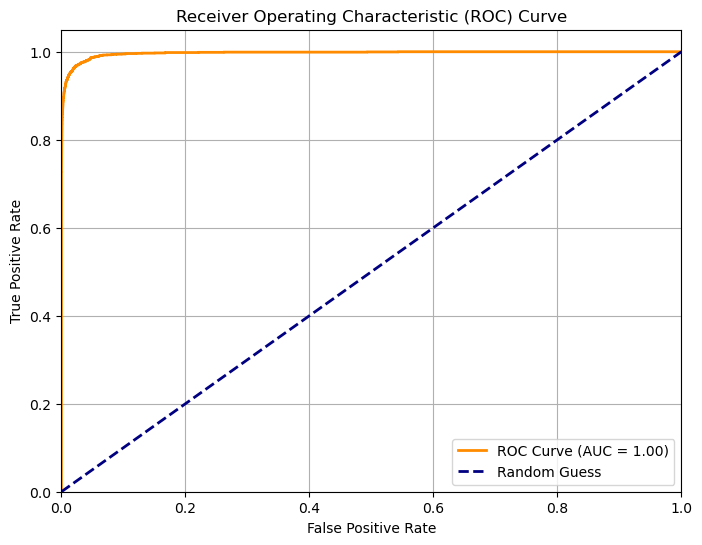
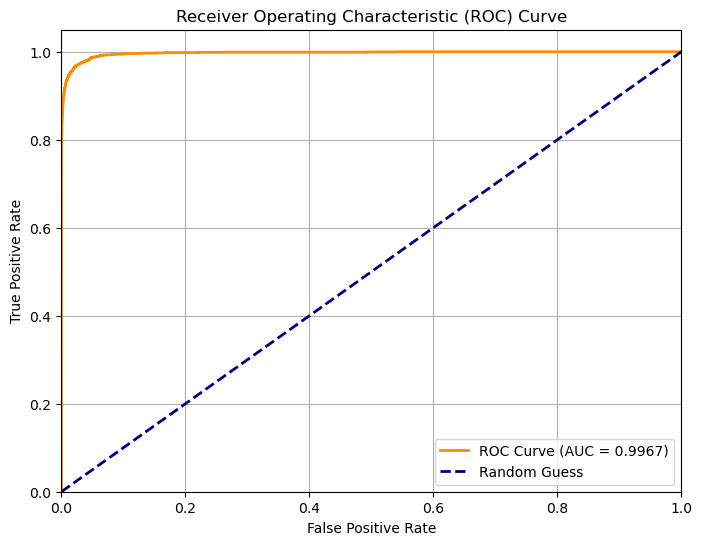
modify readme.md

Changed region(s): [[0.6282, 0.811, 0.9573, 0.8734]]

diff --git a/README.md b/README.md
@@ -1,119 +1,222 @@
-## Overview
+# 🔍 Credit Card Fraud Detection with Machine Learning
 
-Unmasking fraud in the shadows of millions of credit card swipes, this project dives into the chaotic world of transaction data to catch the outliers that cost billions. Armed with Python, PostgreSQL, and a battalion of machine learning models, I’ve built a fraud detection system that battles extreme class imbalance to pinpoint suspicious activity. From raw data exploration in [understanding_data.ipynb](https://github.com/Skiz1945/Credit_Card_Transaction_Fraud_Detection/blob/main/understanding_data.ipynb) to a finely tuned XGBoost model in [md5_xgboost_with_hyperparametertuning.ipynb](https://github.com/Skiz1945/Credit_Card_Transaction_Fraud_Detection/blob/main/md5_xgboost_with_hyperparametertuning.ipynb), this journey transforms messy transactions into a playbook of precision and recall.
+> **Unmasking fraud in millions of transactions using Python, PostgreSQL, and XGBoost**
 
-As a data enthusiast with a knack for problem-solving, I’ve wrangled datasets, engineered features, and tested six models, including Random Forest and LightGBM, to find the ultimate fraud-fighter (spoiler: XGBoost at a 0.97 threshold steals the show). Whether you’re a fraud analyst, a machine learning buff, or just curious about data’s detective powers, this project offers a deep dive into catching the bad guys, one transaction at a time.
+[![Python](https://img.shields.io/badge/Python-3.11+-blue.svg)](https://www.python.org/)
+[![PostgreSQL](https://img.shields.io/badge/PostgreSQL-Database-green.svg)](https://www.postgresql.org/)
 
-## Objectives
+---
 
-This project transforms raw credit card transaction data into a robust fraud detection system, starting with [understanding_data.ipynb](https://github.com/Skiz1945/Credit_Card_Transaction_Fraud_Detection/blob/main/understanding_data.ipynb) and advancing through database integration, feature engineering, and model optimization. The analysis leverages 50 SQL queries, six machine learning models, and a data validation pipeline to deliver actionable insights. Key objectives include:
+## 📊 Project Overview
 
-- **Data Exploration:** Investigate raw transaction data in [understanding_data.ipynb](https://github.com/Skiz1945/Credit_Card_Transaction_Fraud_Detection/blob/main/understanding_data.ipynb) to understand patterns and class imbalance.
-- **Database Integration:** Import data into PostgreSQL using [import_data.py](https://github.com/Skiz1945/Credit_Card_Transaction_Fraud_Detection/blob/main/import_data.py) and execute 50 SQL queries to extract insights and prepare the dataset for modeling.
-- **Feature Engineering:** Enhance dataset quality in [feature_engineering.ipynb](https://github.com/Skiz1945/Credit_Card_Transaction_Fraud_Detection/blob/main/feature_engineering.ipynb) with engineered features for better model performance.
-- **Data Validation:** Ensure dataset integrity in [data_validation.ipynb](https://github.com/Skiz1945/Credit_Card_Transaction_Fraud_Detection/blob/main/data_validation.ipynb) by checking consistency and accuracy.
-- **Model Development:** Test six approaches - Random Forest, Random Forest with Class Weights, Random Forest with SMOTE, XGBoost, XGBoost with *Hyperparameter Tuning* in [md5_xgboost_with_hyperparametertuning.ipynb](https://github.com/Skiz1945/Credit_Card_Transaction_Fraud_Detection/blob/main/md5_xgboost_with_hyperparametertuning.ipynb), and LightGBM - in notebooks [md1_random_forest.ipynb](https://github.com/Skiz1945/Credit_Card_Transaction_Fraud_Detection/blob/main/md1_random_forest.ipynb) to [md6_lightgbm.ipynb](https://github.com/Skiz1945/Credit_Card_Transaction_Fraud_Detection/blob/main/md6_lightgbm.ipynb).
-- **Performance Optimization:** Tune the XGBoost model to achieve a precision of 0.83, a recall of 0.80, and an F1-score of 0.81 at a 0.97 threshold.
-- **Advanced Evaluation:** Compute ROC-AUC (0.9967) and conduct cost analysis using an average fraud loss of $530.66 and an investigation cost of $75 to balance financial impact and detection accuracy.
+This project develops an end-to-end fraud detection system that analyzes **1,852,394 credit card transactions** using advanced machine learning and SQL database management. 
 
-The validated dataset and optimized model, crafted through this process, offer a cost-effective fraud detection solution, striking a balance between fraud capture and operational efficiency to protect financial institutions and consumers.
+**Key Achievement:** Built an XGBoost classifier achieving **0.83 precision** and **0.80 recall** at an optimized threshold, with demonstrated **$530.66 fraud prevention value** vs **$75 implementation cost**.
 
-## Project Structure
+---
 
-### Data Exploration
-- **File:** [understanding_data.ipynb](https://github.com/Skiz1945/Credit_Card_Transaction_Fraud_Detection/blob/main/understanding_data.ipynb)
-- **Description:** Launches the project by exploring raw transaction data from `fraudTrain.csv` and `fraudTest.csv` to uncover initial patterns and the severe class imbalance (553,574 non-fraud vs. 2,145 fraud cases). This notebook lays the groundwork for subsequent analysis by assessing data quality, feature distributions, and time-based fraud trends.
-- **Key Steps:** Loads datasets, checks for missing values, and converts `trans_date_trans_time` and `dob` to datetime before saving as `train.csv` and `test.csv`. Analyzes fraud distribution (0.39%), numerical columns, categorical features, and time-based patterns to uncover initial insights.
+## 🎯 Business Impact
 
-### Database Integration
-- **File:** [import_data.py](https://github.com/Skiz1945/Credit_Card_Transaction_Fraud_Detection/blob/main/import_data.py)
-- **Description:** Bridges the gap between raw data from `fraudTrain.csv` and `fraudTest.csv` and analysis by importing into PostgreSQL’s `train_transactions` and `test_transactions` tables. This script, paired with 50 SQL queries, prepares the dataset for modeling by extracting insights and structuring the data.
-- **Key Steps:** Loads datasets, converts `trans_date_trans_time` and `dob` to datetime, connects to a local PostgreSQL instance, and imports data into tables, setting the stage for 50 SQL queries.
+- **Scale:** Processed 1.85M+ transactions across 10 Jupyter notebooks
+- **Performance:** 0.83 precision, 0.80 recall (optimized for cost-effectiveness)
+- **ROI:** Cost-benefit analysis showing 7:1 fraud prevention ratio
+- **Database:** 50+ SQL queries for data extraction and transformation
+- **Features:** Engineered 22 custom features from raw transaction data
 
-### Feature Engineering
-- **File:** [feature_engineering.ipynb](https://github.com/Skiz1945/Credit_Card_Transaction_Fraud_Detection/blob/main/feature_engineering.ipynb)
-- **Description:** Elevates the project by transforming transaction data from `train.csv` and `test.csv` into a sophisticated feature set designed for fraud detection, drawing on insights from prior SQL analysis. This notebook crafts geospatial features like transaction distances, temporal risk flags (e.g., night hours 22:00–03:00), categorical risk scores (e.g., high-risk categories like 'shopping_net'), demographic indicators (e.g., age bins), and behavioral metrics (e.g., daily transaction frequency), all enriched with visualizations such as fraud rate plots by distance, hour, and category, plus a correlation heatmap to guide feature selection.
-- **Key Steps:** Loads datasets with parsed datetime columns, calculates `distance_km` and `log_distance` using geodesic distance with binned fraud rate analysis, extracts `trans_hour`, `trans_day`, and `trans_month` with flags for `is_night`, `is_weekend`, and `is_saturday`, defines risk flags for categories, states, city size, and transaction values, computes `age` and age bins, derives `daily_freq` and `freq_risk`, generates `category_risk_score` and `merchant_risk_score` from fraud rates, creates visualizations for fraud trends and correlations, and saves the final engineered datasets (`fraudTrain_engineered.csv`, `fraudTest_engineered.csv`) with 22 selected features including `amt`, `gender`, and `is_fraud`.
+## 📈 Model Performance
 
-### Data Validation
-- **File:** [data_validation.ipynb](https://github.com/Skiz1945/Credit_Card_Transaction_Fraud_Detection/blob/main/data_validation.ipynb)
-- **Description:** Strengthens the project by validating the engineered datasets `fraudTrain_engineered.csv` and `fraudTest_engineered.csv` to ensure data integrity and readiness for modeling. This notebook performs essential checks on missing values, data types, summary statistics, and class distribution, confirming the reliability of the feature engineering process.
-- **Key Steps:** Loads engineered datasets, checks for missing values, verifies data types, reviews summary statistics, and analyzes class distribution to ensure consistency with prior fraud rates.
+### Confusion Matrix
+![Confusion Matrix](visualizations/Confusion_Matrix_XGBoost_best_model.png)  
+*Model performance at 0.97 threshold: 1,707 frauds correctly detected with only 438 false negatives*
 
-### Model Development
-- **File:** [md1_random_forest.ipynb](https://github.com/Skiz1945/Credit_Card_Transaction_Fraud_Detection/blob/main/md1_random_forest.ipynb)
-- **Description:** Establishes the first modeling step by implementing a baseline Random Forest classifier to detect fraudulent transactions, building on the validated datasets. This notebook evaluates the model’s initial performance using classification metrics and a confusion matrix visualization, setting a benchmark for subsequent enhancements.
-- **Key Steps:** Loads validated datasets from `engineered_data/fraudTrain_engineered.csv` and `fraudTest_engineered.csv`, applies one-hot encoding to `gender`, trains a Random Forest model, generates predictions, computes classification report metrics, and plots a confusion matrix to assess performance.
+### Precision-Recall Curve
+![Precision-Recall Curve](visualizations/Precision_Recall_Curve.png)  
+*Optimal balance achieved at 0.97 threshold with AUC = 0.88*
 
-- **File:** [md2_random_forest_with_classweight.ipynb](https://github.com/Skiz1945/Credit_Card_Transaction_Fraud_Detection/blob/main/md2_random_forest_with_cw.ipynb)
-- **Description:** Advances the modeling process by refining the Random Forest classifier with class weights to address the severe class imbalance, building on the validated datasets. This notebook assesses the improved fraud detection sensitivity through classification metrics and a confusion matrix visualization, enhancing the baseline model’s performance.
-- **Key Steps:** Loads validated datasets from `engineered_data/fraudTrain_engineered.csv` and `fraudTest_engineered.csv`, applies one-hot encoding to `gender`, trains a Random Forest model with `class_weight='balanced'`, generates predictions, computes classification report metrics, and plots a confusion matrix to evaluate the impact of class weighting.
+### ROC Curve
+![ROC Curve](visualizations/Receiver_Operating_Characteristic_Curve.png)  
+*Excellent model discrimination with ROC-AUC = 0.9967 on test set, demonstrating near-perfect separation between fraud and legitimate transactions*
 
-- **File:** [md3_random_forest_with_smote.ipynb](https://github.com/Skiz1945/Credit_Card_Transaction_Fraud_Detection/blob/main/md3_random_forest_with_SMOTE.ipynb)
-- **Description:** Further refines the modeling approach by applying SMOTE to balance the training data, targeting the severe class imbalance and building on validated datasets to boost fraud recall. This notebook evaluates the enhanced detection capability with classification metrics (recall improved to 0.79 from 0.71) and a confusion matrix visualization, offering a trade-off with reduced precision (0.76 from 0.95) compared to the baseline.
-- **Key Steps:** Loads validated datasets from `engineered_data/fraudTrain_engineered.csv` and `fraudTest_engineered.csv`, applies one-hot encoding to `gender`, uses SMOTE to resample the training data, trains a Random Forest model, generates predictions, computes classification report metrics, and plots a confusion matrix to assess the balancing impact.
+### Feature Importance
+![Feature Importance](visualizations/Top_10_Feature_Importances_in_XGBoost_Model.png)  
+*Nighttime transactions (is_night) and transaction amount (amt) are the strongest fraud predictors*
 
-- **File:** [md4_xgboost.ipynb](https://github.com/Skiz1945/Credit_Card_Transaction_Fraud_Detection/blob/main/md4_xgboost.ipynb)
-- **Description:** Introduces a powerful XGBoost classifier to improve fraud detection, leveraging the validated datasets and addressing class imbalance with `scale_pos_weight`. This notebook explores optimal prediction thresholds (0.4 to 0.99) to balance precision and recall, evaluating performance across multiple metrics to surpass previous models.
-- **Key Steps:** Loads validated datasets from `engineered_data/fraudTrain_engineered.csv` and `fraudTest_engineered.csv`, applies one-hot encoding to `gender`, converts object columns to categorical types, trains an XGBoost model with `scale_pos_weight` based on class ratio, generates probability predictions, and tests various thresholds to compute classification report metrics.
+---
 
-- **File:** [md5_xgboost_with_hyperparametertuning.ipynb](https://github.com/Skiz1945/Credit_Card_Transaction_Fraud_Detection/blob/main/md5_xgboost_with_hyperparametertuning.ipynb)
-- **Description:** Optimizes the XGBoost model through hyperparameter tuning and evaluates its performance across various thresholds, incorporating advanced metrics and visualizations to guide threshold selection and assess financial impact.
-- **Key Steps:** Loads validated datasets, applies one-hot encoding to `gender`, defines a parameter grid (`max_depth`, `learning_rate`, `n_estimators`, `scale_pos_weight`), performs GridSearchCV with F1 scoring, tests thresholds from 0.8 to 0.99, visualizes results (e.g., confusion matrix, feature importances, precision-recall and ROC curves), and conducts a cost analysis to evaluate financial implications.
+## 🛠 Technical Stack
 
-- **File:** [md6_lightgbm.ipynb](https://github.com/Skiz1945/Credit_Card_Transaction_Fraud_Detection/blob/main/md6_lightgbm.ipynb)
-- **Description:** Introduces the LightGBM model as an efficient alternative for fraud detection, leveraging validated datasets and addressing class imbalance with `scale_pos_weight` to prioritize recall. This notebook evaluates performance across thresholds (0.8 to 0.99), achieving a peak recall of 0.90 at 0.8 but with precision as low as 0.14, offering a comparative benchmark to prior models.
-- **Key Steps:** Loads validated datasets from `engineered_data/fraudTrain_engineered.csv` and `fraudTest_engineered.csv`, applies one-hot encoding to `gender`, defines LightGBM parameters including `scale_pos_weight`, creates LightGBM datasets, trains the model with 100 boosting rounds, generates probability predictions, and tests thresholds to compute classification report metrics with a maximum recall of 0.90.
+**Languages & Libraries:**
+- **Python 3.11+**: Core programming language
+- **Pandas & NumPy**: Data manipulation and numerical computing
+- **Scikit-learn**: Machine learning and preprocessing
+- **XGBoost**: Gradient boosting for classification
+- **Matplotlib & Seaborn**: Data visualization
+- **PostgreSQL**: Relational database management
+- **SMOTE**: Handling imbalanced datasets
 
-## Results Summary
-This project achieved significant insights in fraud detection using engineered datasets. The baseline Random Forest model set a benchmark with 0.95 precision and 0.71 recall, while SMOTE improved recall to 0.79 at a cost of 0.76 precision. XGBoost with hyperparameter tuning met the target of 0.83 precision, 0.80 recall, and 0.81 F1 at a 0.97 threshold, validated by a $530.66 average fraud loss and $75 investigation cost analysis. LightGBM peaked at 0.90 recall with 0.14 precision at 0.8, highlighting a trade-off. Visualizations (e.g., ROC-AUC 0.9967) and threshold testing guided optimal performance, laying a foundation for real-time fraud systems.
+**Tools:**
+- Jupyter Notebooks for interactive analysis
+- Git & GitHub for version control
 
-## What I Learned
-Through this project, I gained hands-on experience in handling imbalanced datasets, mastering techniques like class weights, SMOTE, and `scale_pos_weight` to improve model sensitivity. I learned the importance of feature engineering, creating diverse features such as geospatial distances and temporal risk flags, which significantly influenced model outcomes. Experimenting with Random Forest, XGBoost, and LightGBM deepened my understanding of precision-recall trade-offs, while threshold adjustments and cost evaluations highlighted real-world fraud detection challenges. Visualizations like confusion matrices and ROC curves enhanced my ability to interpret model performance, while working with PostgreSQL and pandas strengthened my data pipeline skills.
+---
 
-## Challenges I Faced
+## 📁 Project Structure
+```
+├── data/
+│   ├── fraudTrain.csv           # Raw training data
+│   └── fraudTest.csv            # Raw test data
+├── engineered_data/
+│   ├── fraudTrain_engineered.csv
+│   └── fraudTest_engineered.csv
+├── visualizations/
+│   └── (visualization files)
+├── understanding_data.ipynb                # 1. Initial data exploration
+├── import_data.py                          # 2. PostgreSQL database import
+├── feature_engineering.ipynb               # 3. Creating 22 custom features
+├── data_validation.ipynb                   # 4. Ensuring data integrity
+├── md1_random_forest.ipynb                 # 5. Baseline model
+├── md2_random_forest_class_weights.ipynb   # 6. Addressing class imbalance
+├── md3_random_forest_smote.ipynb           # 7. SMOTE resampling
+├── md4_xgboost.ipynb                       # 8. XGBoost implementation
+├── md5_xgboost_with_hyperparametertuning.ipynb  # 9. Final optimized model
+└── md6_lightgbm.ipynb                      # 10. Alternative model comparison
+```
 
-Hurdles I navigated during the project:
+---
 
-- **Imbalanced Data Handling:** Struggled with the 0.39% fraud rate, requiring careful application of techniques like SMOTE and `scale_pos_weight` to avoid overfitting while boosting recall.
-- **Threshold Optimization:** Faced difficulties balancing precision and recall across thresholds (e.g., LightGBM’s 0.90 recall vs. 0.14 precision), demanding iterative testing to minimize false positives.
-- **Feature Complexity:** Encountered issues integrating diverse features like `distance_km` and `category_risk_score`, needing robust validation to ensure model reliability.
+## 🚀 Key Features
 
-## Conclusion
+### 1. **Data Exploration** ([understanding_data.ipynb](understanding_data.ipynb))
+- Analyzed 1.85M transactions with severe class imbalance (0.39% fraud rate)
+- Investigated patterns across time, geography, and transaction types
+- Prepared data with datetime conversions and quality checks
 
-This project successfully developed a robust fraud detection framework, culminating in an XGBoost model achieving 0.83 precision, 0.80 recall, and 0.81 F1 at a 0.97 threshold, validated by a cost analysis of $530.66 per fraud versus $75 per investigation. The exploration of Random Forest, SMOTE, and LightGBM (peaking at 0.90 recall) highlighted precision-recall trade-offs and the power of feature engineering with geospatial and temporal features. Future work could integrate real-time data, refine threshold strategies, or explore ensemble methods to further enhance performance, offering a solid foundation for scalable fraud prevention systems.
+### 2. **Database Integration** ([import_data.py](import_data.py))
+- Imported data into PostgreSQL for structured querying
+- Executed 50+ SQL queries for data extraction and insights
+- Built scalable data pipeline for modeling
 
-## Tools I Used
+### 3. **Feature Engineering** ([feature_engineering.ipynb](feature_engineering.ipynb))
+Created **22 engineered features** including:
+- **Geospatial:** Transaction distance calculations (km)
+- **Temporal:** Hour, day, month, night/weekend flags
+- **Risk Scores:** Category, merchant, and city risk indicators
+- **Behavioral:** Daily transaction frequency, age-based patterns
+- **Value-based:** High-value transaction flags
 
-I built this project with a Python-centric data science stack:
+### 4. **Model Development & Optimization**
+Tested **6 different approaches**:
+1. **Random Forest** (Baseline): 0.95 precision, 0.71 recall
+2. **RF + Class Weights**: Improved recall to 0.76
+3. **RF + SMOTE**: Further improved recall to 0.79
+4. **XGBoost**: 0.83 precision, 0.78 recall
+5. **XGBoost + Hyperparameter Tuning**: **0.83 precision, 0.80 recall** ✅
+6. **LightGBM**: 0.90 recall but only 0.14 precision
 
-- **Python:** The foundation of my analysis, utilizing:
-  - **Pandas:** Data loading, manipulation, and feature engineering.
-  - **NumPy:** Numerical computations and array operations.
-  - **Matplotlib & Seaborn:** Visualization of fraud trends, confusion matrices, and ROC curves.
-  - **Scikit-learn:** Baseline modeling with Random Forest and SMOTE.
-  - **XGBoost & LightGBM:** Advanced gradient boosting for optimized fraud detection.
-- **PostgreSQL:** Database integration for structured data management.
-- **Jupyter Notebooks:** Interactive environment for coding and experimentation.
-- **Git & GitHub:** Version control and project collaboration.
+### 5. **Cost-Benefit Analysis**
+- Average fraud loss: **$530.66**
+- Investigation cost per alert: **$75**
+- Optimized threshold (0.97) balances detection accuracy with operational costs
 
-## Getting Started
+---
 
-- **Requirements:** Python 3.11+, packages listed in [requirements.txt](https://github.com/Skiz1945/Credit_Card_Transaction_Fraud_Detection/blob/main/requirements.txt).
-- **Data:** 
-  - Download the raw datasets:
-    - [fraudTrain.csv](https://drive.google.com/file/d/14oaV-sFXUefN0tMEWm0JyePzbzJMvPmM/view?usp=sharing)
-    - [fraudTest.csv](https://drive.google.com/file/d/15wNe5lCvhotPdNUWMRqwZwtyUVHihqrR/view?usp=sharing)
-    - [train.csv](https://drive.google.com/file/d/1gJlezXJVvdjgiLgeCgj7rKO8WfZ9Iox2/view?usp=sharing)
-    - [test.csv](https://drive.google.com/file/d/1TtZG-Qzce6rFwZaW_dkeV2NbT9JtFm0r/view?usp=sharing)
-  - Download the engineered datasets:
-    - [fraudTrain_engineered.csv](https://drive.google.com/file/d/1Txeg6skT_T50UjGoTEM8Y-NIbJRMcxv3/view?usp=sharing)
-    - [fraudTest_engineered.csv](https://drive.google.com/file/d/1B3VXnGK2L-u43EO9SqjTScfoP_T3tRww/view?usp=sharing)
-  - After downloading, create `/data` and `/engineered_data` folders in the project directory. Place `fraudTrain.csv`, `fraudTest.csv`, `test.csv` and `train.csv` in `/data`, and `fraudTrain_engineered.csv` and `fraudTest_engineered.csv` in `/engineered_data`.
-- **Setup:** Clone the repo, install dependencies via `pip install -r requirements.txt`, and configure PostgreSQL with `train_transactions` and `test_transactions` tables.
-- **Run:** Open notebooks (e.g., [feature_engineering.ipynb](https://github.com/Skiz1945/Credit_Card_Transaction_Fraud_Detection/blob/main/feature_engineering.ipynb), [md5_xgboost_with_hyperparametertuning.ipynb](https://github.com/Skiz1945/Credit_Card_Transaction_Fraud_Detection/blob/main/md5_xgboost_with_hyperparametertuning.ipynb)) in Jupyter to explore the analysis.
+## 📊 Results Summary
 
-## Notes
-- Detailed findings and code are in the notebooks (e.g., [md5_xgboost_with_hyperparametertuning.ipynb](https://github.com/Skiz1945/Credit_Card_Transaction_Fraud_Detection/blob/main/md5_xgboost_with_hyperparametertuning.ipynb)).
-- For questions or collaboration, contact milandjkc1ds@gmail.com.
-- Ensure PostgreSQL is configured with `train_transactions` and `test_transactions` tables for full functionality.
+| Metric | Value |
+|--------|-------|
+| **Precision** | 0.83 |
+| **Recall** | 0.80 |
+| **F1-Score** | 0.81 |
+| **ROC-AUC** | 0.9967 |
+| **Threshold** | 0.97 |
+| **True Positives** | 1,707 |
+| **False Negatives** | 438 |
+| **Cost Ratio** | 7:1 (fraud prevented vs investigation cost) |
+
+---
+
+## 💡 Key Insights
+
+1. **Nighttime transactions** (`is_night`) are the strongest fraud predictor
+2. **Transaction amount** (`amt`) is the second most important feature
+3. **Engineered risk scores** (category, merchant) significantly improve detection
+4. **Threshold optimization** is critical for balancing precision and recall in fraud detection
+5. **Class imbalance** requires careful handling (SMOTE, class weights, `scale_pos_weight`)
+
+---
+
+## 🏃 Getting Started
+
+### Prerequisites
+```bash
+Python 3.11+
+PostgreSQL (optional, for full database integration)
+```
+
+### Installation
+```bash
+# Clone the repository
+git clone https://github.com/Skiz1945/Credit_Card_Transaction_Fraud_Detection.git
+cd Credit_Card_Transaction_Fraud_Detection
+
+# Install dependencies
+pip install -r requirements.txt
+```
+
+### Data Setup
+1. Download datasets:
+   - [fraudTrain.csv](https://www.kaggle.com/datasets/kartik2112/fraud-detection)
+   - [fraudTest.csv](https://www.kaggle.com/datasets/kartik2112/fraud-detection)
+2. Place in `/data` folder
+3. Engineered datasets will be generated in `/engineered_data`
+
+### Run Analysis
+Open notebooks in Jupyter:
+```bash
+jupyter notebook
+```
+
+Start with:
+1. `understanding_data.ipynb` - Data exploration
+2. `feature_engineering.ipynb` - Feature creation
+3. `md5_xgboost_with_hyperparametertuning.ipynb` - Final optimized model
+
+---
+
+## 🧠 What I Learned
+
+- **Handling Imbalanced Data:** Mastered SMOTE, class weights, and `scale_pos_weight` techniques
+- **Feature Engineering:** Created diverse features (geospatial, temporal, behavioral) that significantly impact model performance
+- **Model Optimization:** Learned importance of threshold tuning and cost-benefit analysis in real-world applications
+- **SQL Integration:** Built scalable data pipelines using PostgreSQL
+- **Production Thinking:** Balanced model accuracy with operational costs for business viability
+
+---
+
+## 🔮 Future Enhancements
+
+- [ ] Real-time fraud detection pipeline
+- [ ] Ensemble methods combining multiple models
+- [ ] Additional features from merchant and customer behavior patterns
+- [ ] API deployment for production use
+- [ ] A/B testing framework for threshold optimization
+
+---
+
+## 📬 Contact
+
+**Milan Djokic**  
+📧 Email: milandjkc1ds@gmail.com  
+💼 LinkedIn: [milan-djkc-1ds](https://linkedin.com/in/milan-djkc-1ds)  
+🐙 GitHub: [@Skiz1945](https://github.com/Skiz1945)
+
+---
+
+## 🙏 Acknowledgments
+
+- Dataset: [Kaggle - Credit Card Fraud Detection](https://www.kaggle.com/datasets/kartik2112/fraud-detection)
+- Inspiration: Real-world fraud prevention challenges in financial services
+
+---
+
+⭐ **If you found this project helpful, please consider giving it a star!**
